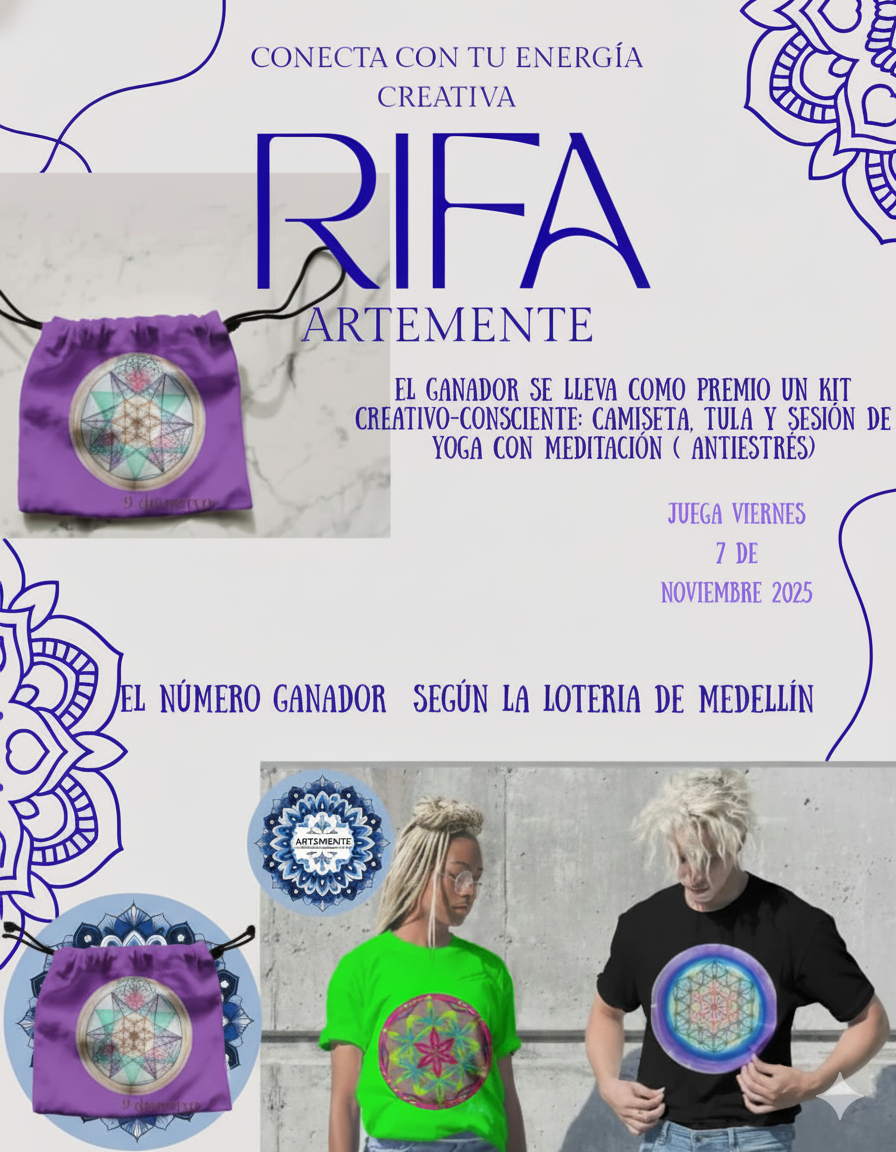
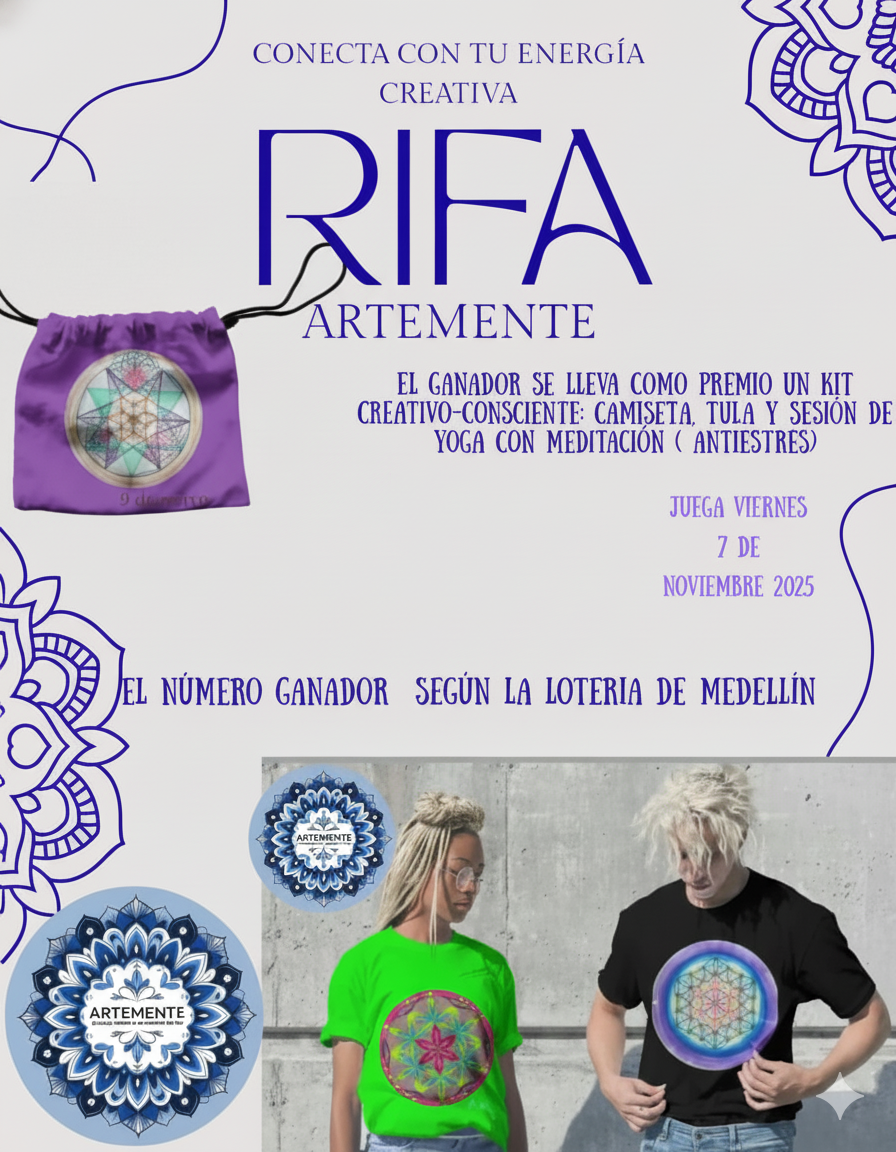
Actualizar imagen de rifa y mejorar carga de números disponibles desde Google Sheets

diff --git a/artemente/index.html b/artemente/index.html
@@ -74,8 +74,7 @@
   <main class="wrap">
     <section class="hero">
       <figure class="card">
-        <!-- Usa la imagen de ArtemenTe. Asegúrate de que el archivo se llame 'artemente-rifa.png' o ajusta el nombre. -->
-        <img class="hero-img" src="artemente-rifa.png" alt="Kit Creativo ArtemenTe en rifa" />
+        <img class="hero-img" src="artemente-rifa.jpg" alt="Kit Creativo ArtemenTe en rifa" />
       </figure>
 
       <div class="grid-card card">
@@ -109,12 +108,9 @@
     const WHATS_MSG = encodeURIComponent(
       "Hola 👋, quiero participar en la *Rifa ArtemenTe: Conecta con tu Energía Creativa*. ¿Qué números tienes disponibles?"
     );
-    // Lista de números DISPONIBLES. Todo lo que NO esté en esta lista se marcará como RESERVADO.
-    const disponibles = [
-      3,6,7,10,11,12,14,15,21,23,24,26,30,31,33,34,35,36,40,41,42,43,44,46,47,49,
-      50,51,53,54,55,56,58,59,60,61,62,64,65,66,68,69,70,71,72,74,75,76,78,79,80,
-      81,83,84,85,86,88,90,91,92,93,94,96
-    ].map(n => (""+n).padStart(2,"0"));
+    // ID de tu Google Sheet (asegúrate de que sea público o que la API de Google Sheets tenga permisos)
+    const SHEET_ID = "1GxjtQxIKo0Z4YMQr09dNTQRIXET-iCT-IlEldU6cXsw";
+    let disponibles = [];
     // ==========================================================
 
     const board = document.getElementById('board');
@@ -129,10 +125,32 @@
     // Generar números 00..99
     const numbers = Array.from({length:100}, (_,i)=> (""+i).padStart(2,'0'));
 
+    async function cargarDisponibles() {
+      try {
+        const url = `https://docs.google.com/spreadsheets/d/${SHEET_ID}/gviz/tq?tqx=out:json&tq=select%20*`;
+        const res = await fetch(url, { cache: "no-store" });
+        const txt = await res.text();
+        const json = JSON.parse(txt.substring(txt.indexOf("{"), txt.lastIndexOf("}") + 1));
+        const rows = json.table.rows;
+
+        disponibles = rows
+          .map(r => r.c?.[0]?.v) // Asume que los números están en la primera columna (índice 0)
+          .filter(v => v !== null && v !== undefined && v !== "" && String(v).toLowerCase() !== "numero") // Filtra celdas vacías o el encabezado "numero"
+          .map(v => String(v).padStart(2, "0")); // Formatea a dos dígitos (ej. 7 -> "07")
+        console.log("Números disponibles cargados:", disponibles);
+      } catch (e) {
+        console.error("No se pudo cargar el Sheet:", e);
+        // Si hay un error, se inicializa disponibles como un array vacío o un valor por defecto
+        disponibles = [];
+        alert("¡Error al cargar los números de la rifa! Intenta de nuevo más tarde.");
+      }
+      render(); // Llama a render una vez que los datos se han cargado (o fallado)
+    }
+
     function render(){
       board.innerHTML = '';
       numbers.forEach(num => {
-        // Por defecto: reservado, salvo que esté en 'disponibles'
+        // Por defecto: reservado, salvo que esté en 'disponibles' (cargado del Sheet)
         const defaultSold = !disponibles.includes(num);
         const sold = state[num] !== undefined ? state[num] : defaultSold;
         const cell = document.createElement('button');
@@ -142,9 +160,14 @@
         cell.dataset.num = num;
         cell.innerHTML = `<div>${num}</div>`;
         cell.addEventListener('click', () => {
-          state[num] = !cell.classList.contains('sold');
-          save();
-          render();
+          // Solo permite marcar/desmarcar si el número no es originalmente "vendido" por el Sheet
+          if (disponibles.includes(num)) { // Solo se puede modificar si el número está en la lista de disponibles del sheet
+            state[num] = !cell.classList.contains('sold');
+            save();
+            render();
+          } else {
+            alert("Este número ya está reservado o no está disponible.");
+          }
         });
         board.appendChild(cell);
       });
@@ -152,20 +175,37 @@
 
     // Botones
     document.getElementById('btnWhats').onclick = () => {
-      const url = `https://api.whatsapp.com/send?phone=${WHATS_NUMBER}&text=${WHATS_MSG}`;
+      // Prepara una lista de los números seleccionados localmente
+      const seleccionados = numbers.filter(num => state[num] === false && disponibles.includes(num)); // Los que el usuario marcó como "disponibles" y que originalmente sí lo estaban
+
+      let whatsMessage;
+      if (seleccionados.length > 0) {
+        whatsMessage = encodeURIComponent(
+          `Hola 👋, estoy interesado en reservar los siguientes números para la *Rifa ArtemenTe*: ${seleccionados.join(', ')}. ¿Están disponibles?`
+        );
+      } else {
+        whatsMessage = WHATS_MSG; // Mensaje general si no ha seleccionado nada
+      }
+
+      const url = `https://api.whatsapp.com/send?phone=${WHATS_NUMBER}&text=${whatsMessage}`;
       window.open(url, '_blank');
     };
 
     document.getElementById('btnInvert').onclick = () => {
-      numbers.forEach(n => state[n] = !(state[n] ?? (!disponibles.includes(n))));
+      // Al invertir, solo afecta los números que originalmente están en la lista de disponibles
+      numbers.forEach(n => {
+        if (disponibles.includes(n)) {
+          state[n] = !(state[n] ?? (!disponibles.includes(n)));
+        }
+      });
       save(); render();
     };
 
     document.getElementById('btnReset').onclick = () => {
-      if(confirm('¿Restablecer el tablero al listado original (disponibles vs. reservados)?')){
+      if(confirm('¿Restablecer el tablero al listado original (disponibles vs. reservados según la hoja de cálculo)?')){
         localStorage.removeItem('rifa-artemente-estado');
-        for (const k in state) delete state[k];
-        render();
+        for (const k in state) delete state[k]; // Limpia el estado local
+        render(); // Vuelve a renderizar con la data del Sheet
       }
     };
 
@@ -179,7 +219,8 @@
       winBox.textContent = `¡Felicidades! El número ganador es: ${bn}. Este aviso permanecerá visible durante una semana.`;
     }
 
-    render();
+    // Inicia la carga de datos del Sheet
+    cargarDisponibles();
   </script>
 </body>
 </html>
